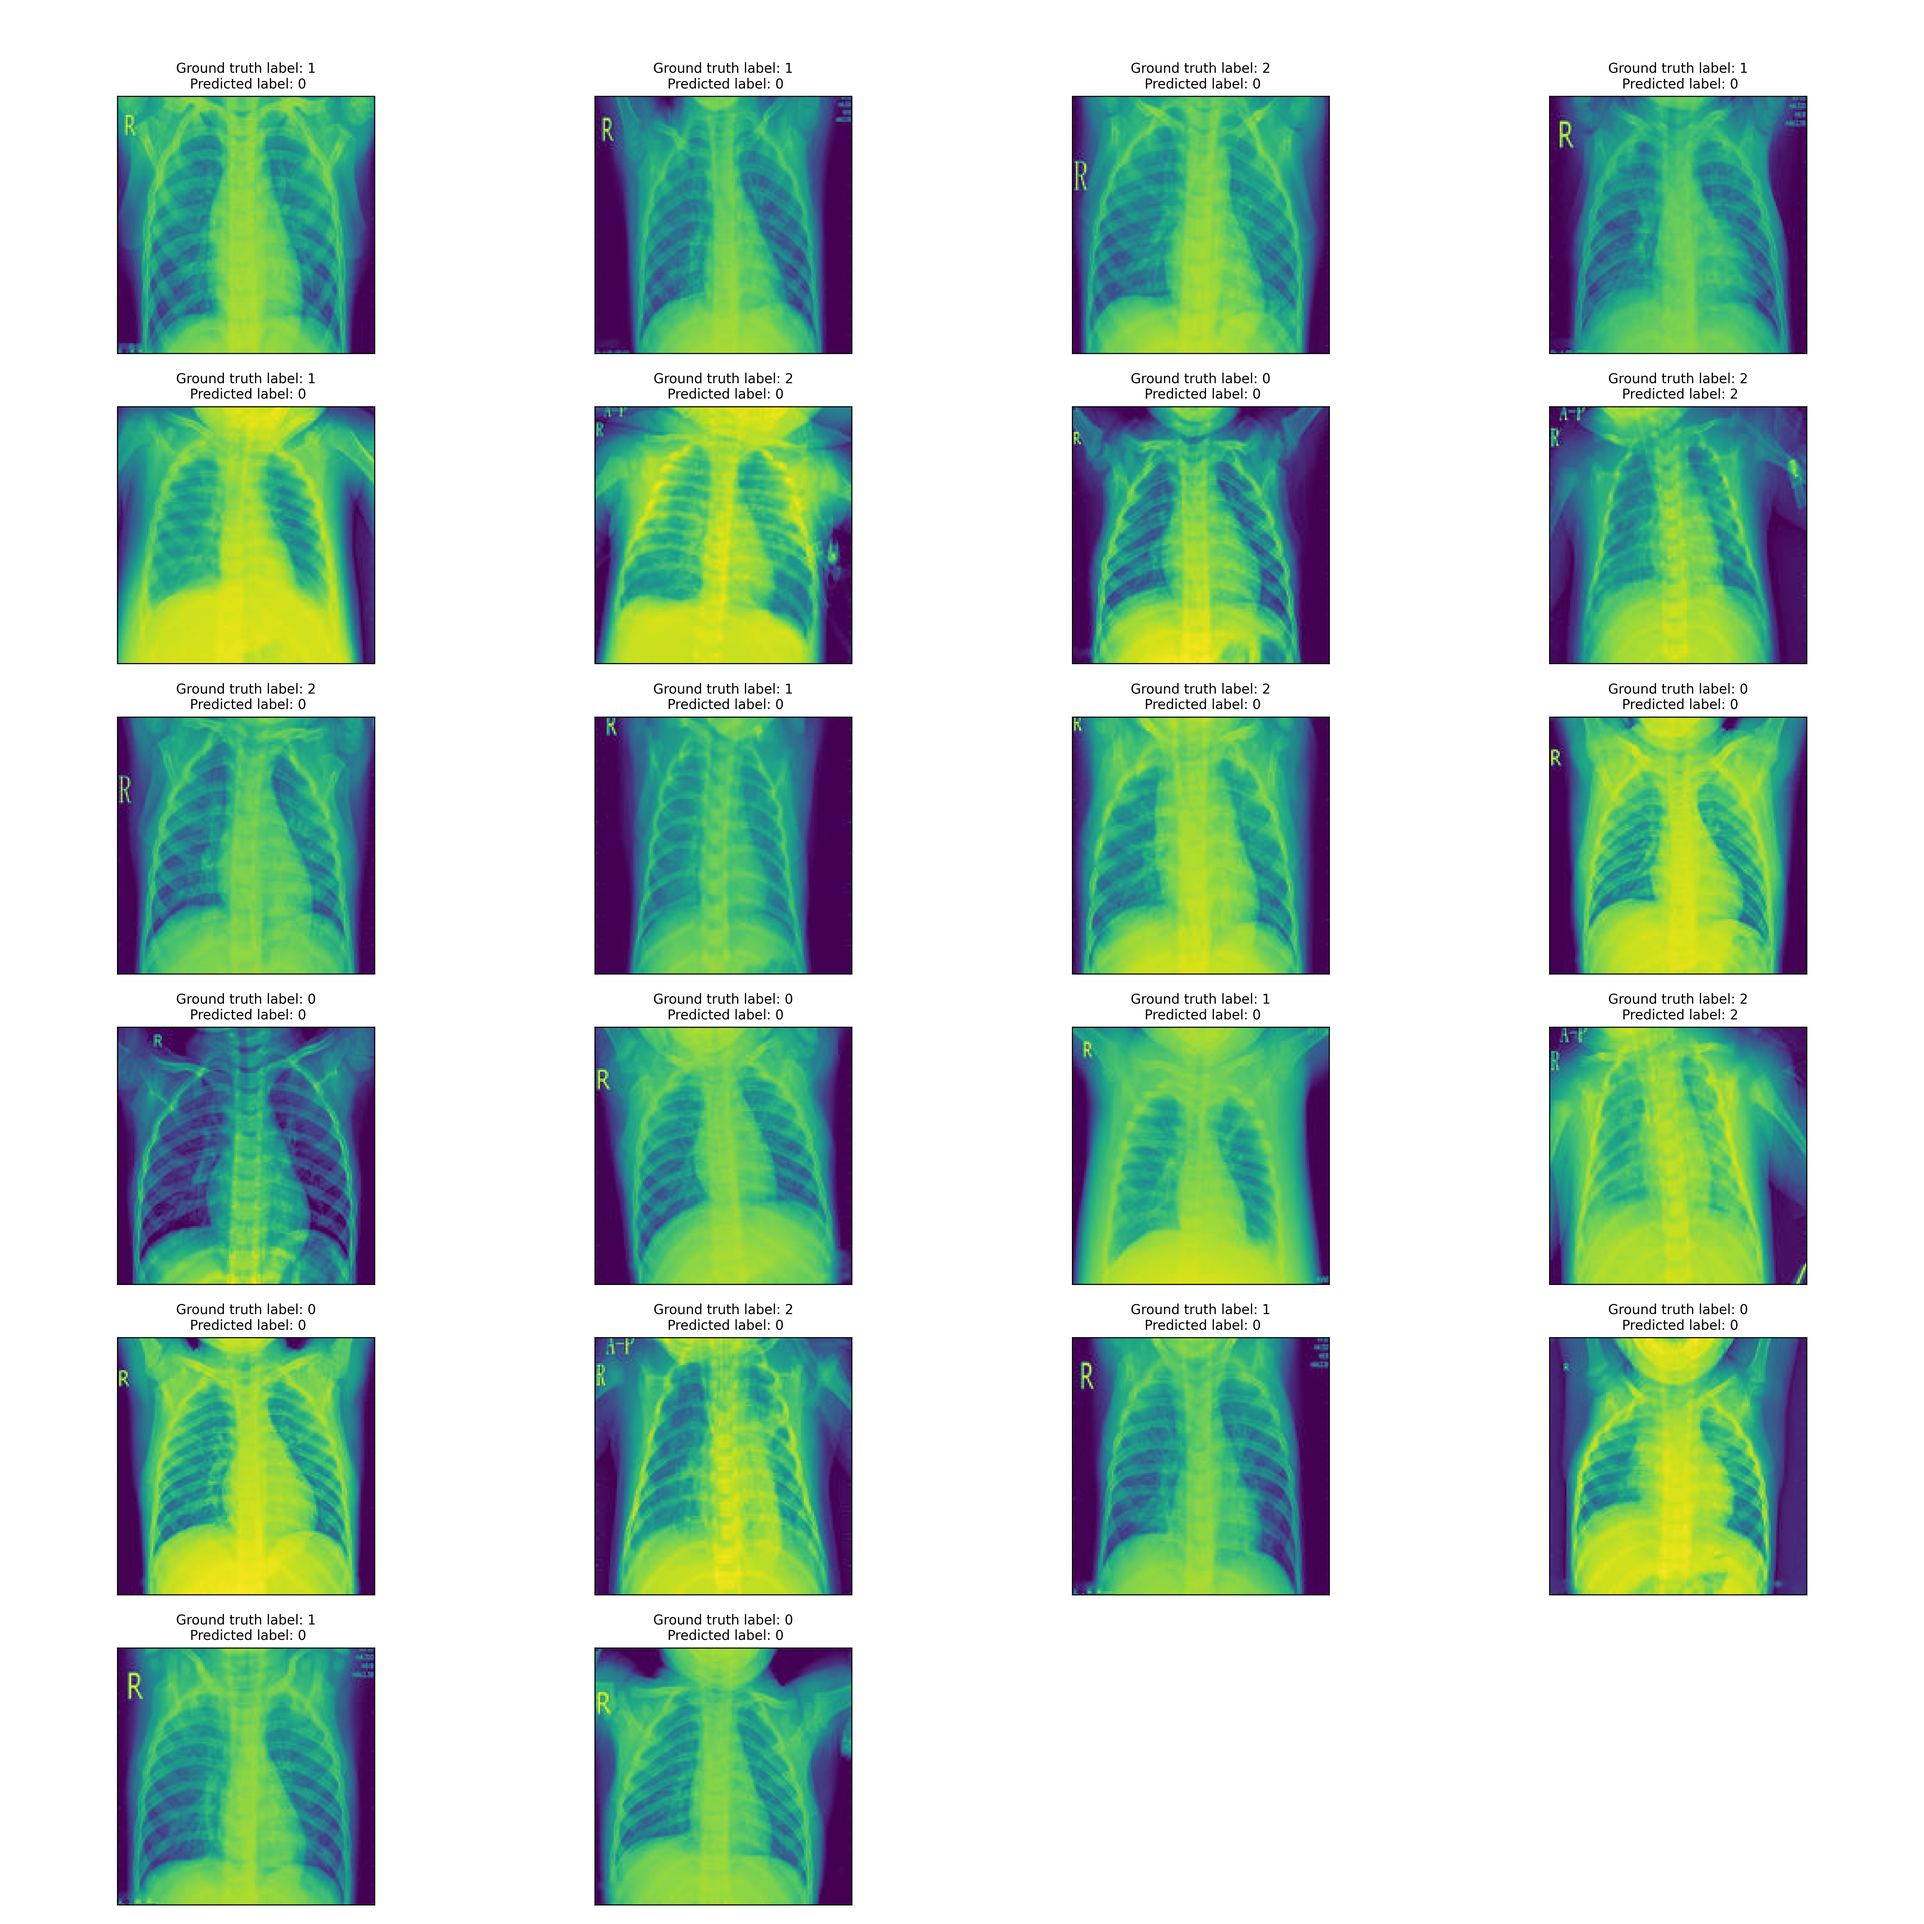
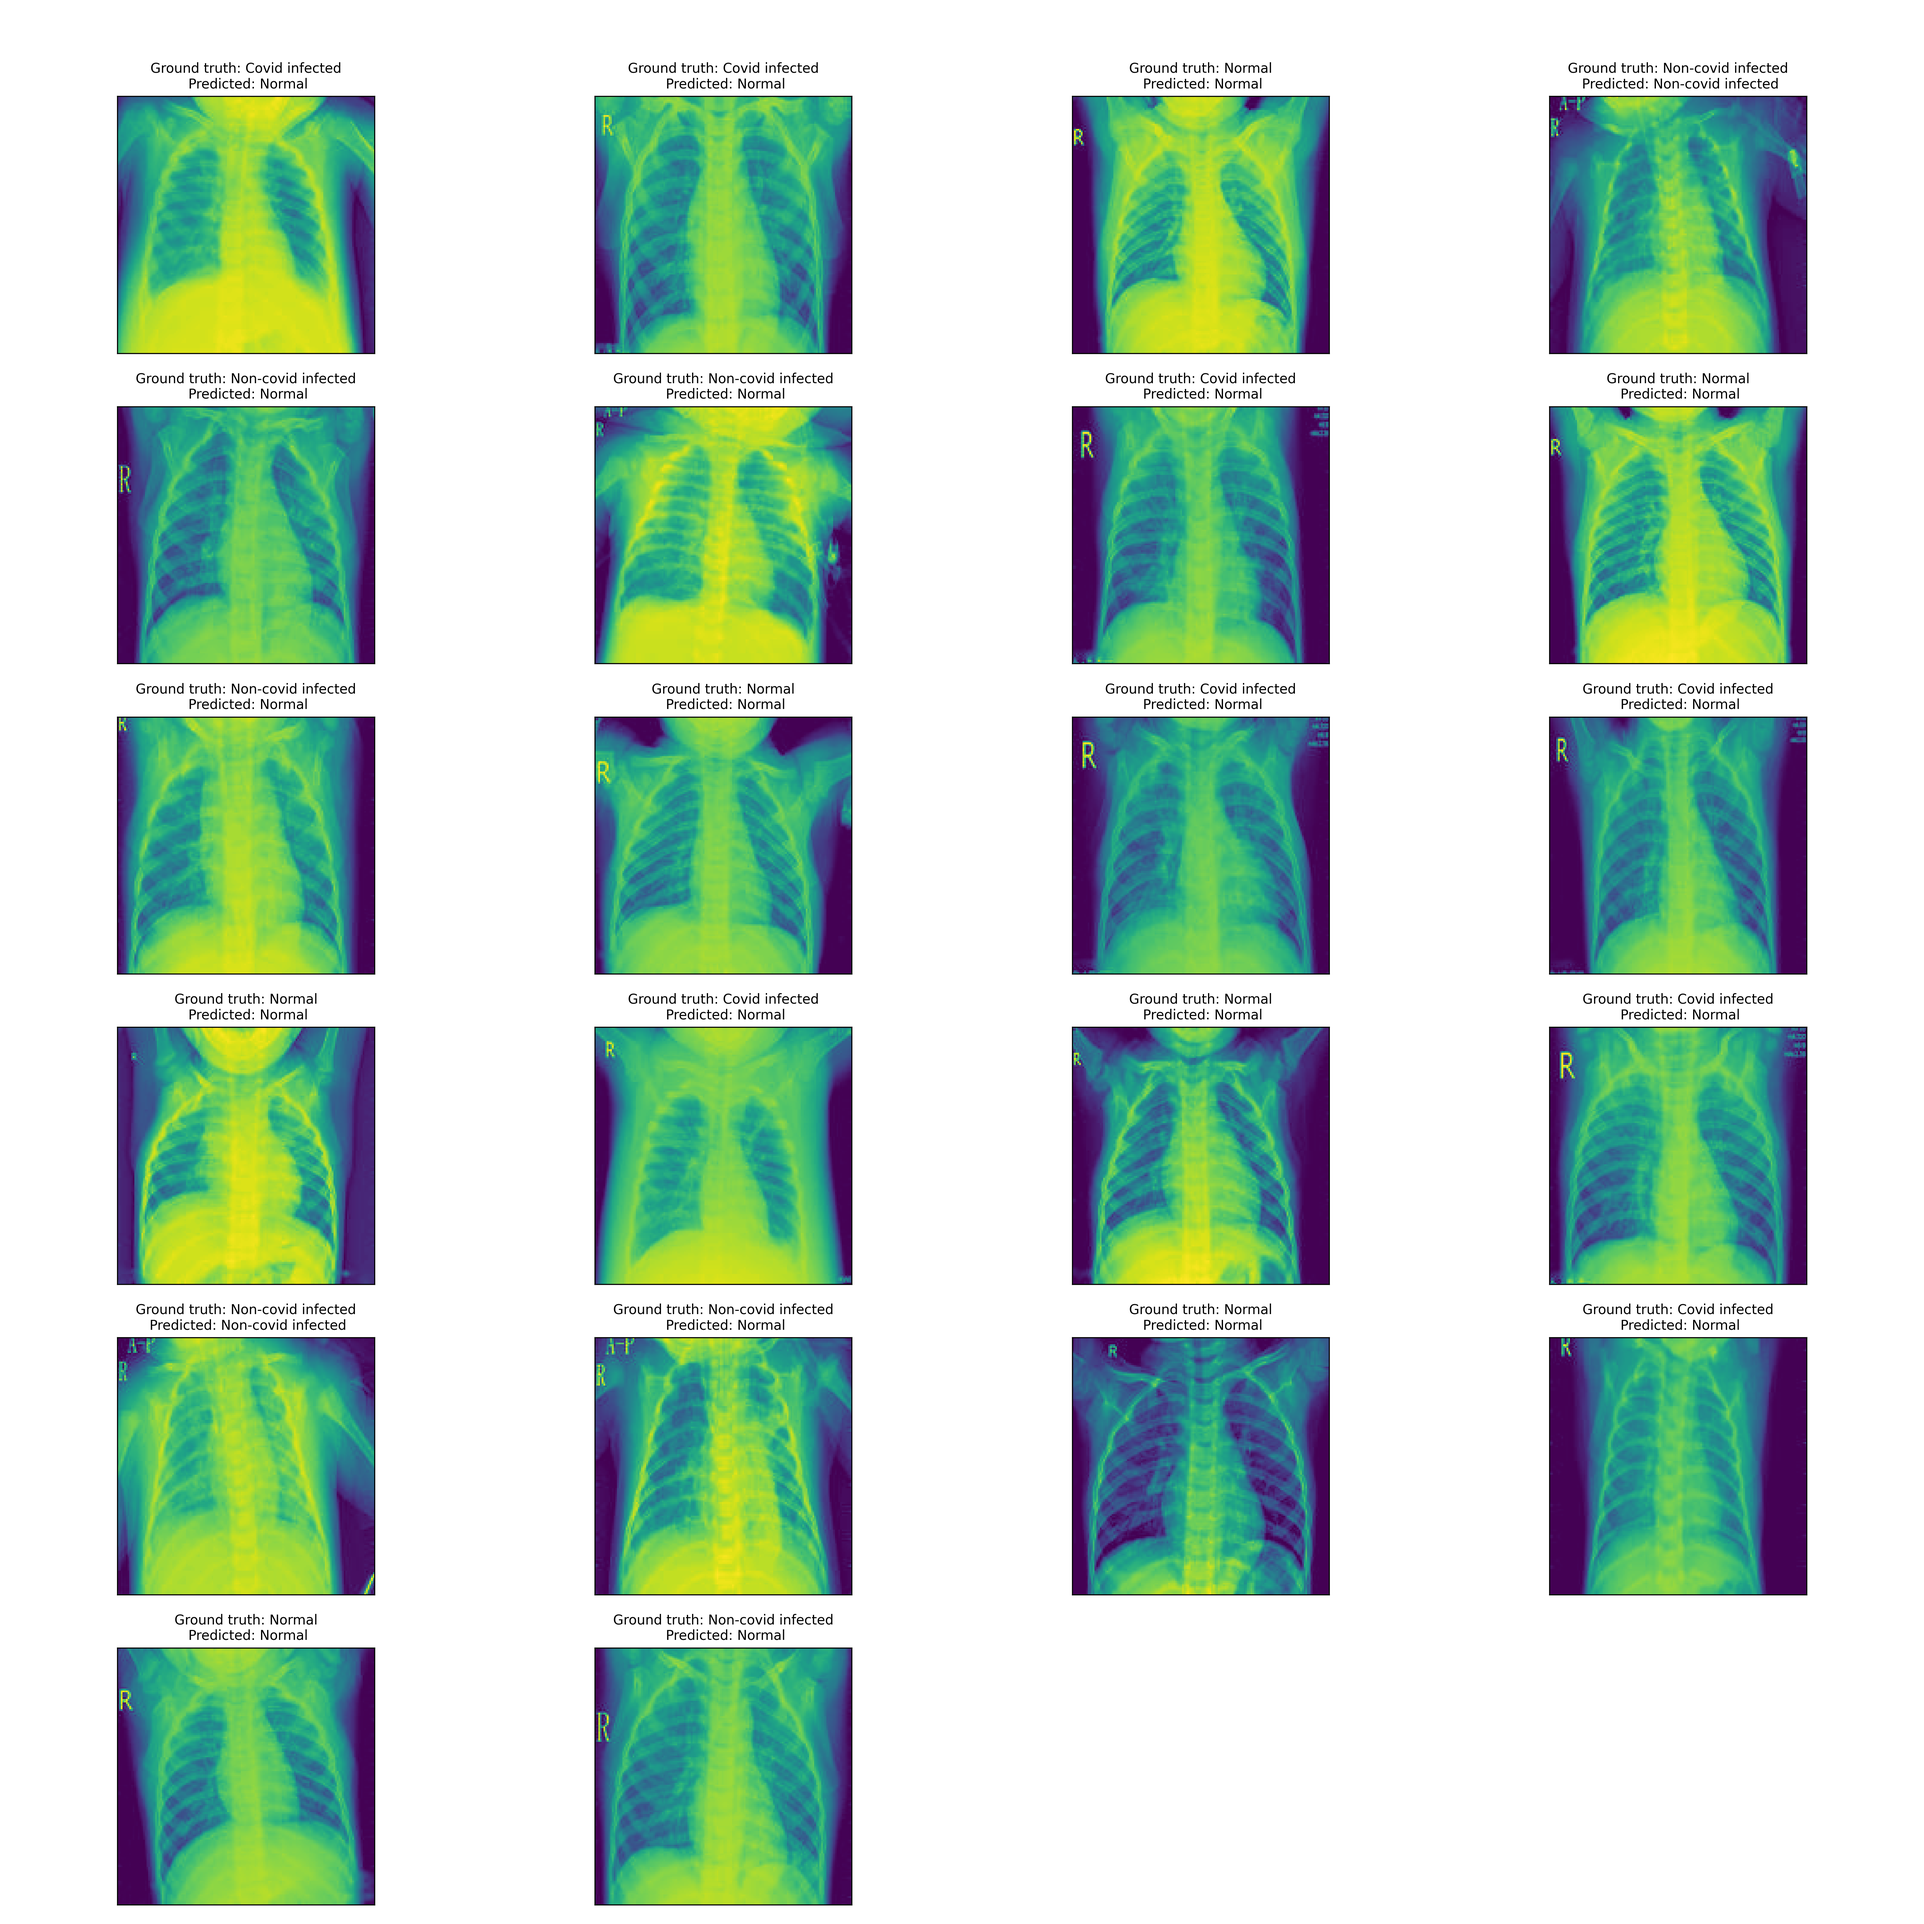
change label to string

diff --git a/training.py b/training.py
@@ -293,36 +293,36 @@ def train_binary(train_loader_1,val_loader_1, train_loader_2, val_loader_2, mode
     return model1, model2
 
 
-ld_train = Lung_Train_Dataset()
-ld_val= Lung_Val_Dataset()
-ld_test= Lung_Test_Dataset()
-ld_train_1 = Lung_Dataset(types="train", data_args=1, classification="binary")
-ld_val_1 = Lung_Dataset(types="val", data_args=0, classification="binary")
-ld_test_1 = Lung_Dataset(types="test", data_args=0, classification="binary")
-ld_train_2 = Lung_Dataset(types="train", data_args=1, classification="infected_only")
-ld_val_2 = Lung_Dataset(types="val", data_args=0, classification="infected_only")
-ld_test_2 = Lung_Dataset(types="test", data_args=0, classification="infected_only")
-# model = Net()
-model1 = model2 = custom_model_1(output_size=2)
-bs_val = 40
-learning_rate=0.01
-train_loader_1 = DataLoader(ld_train_1, batch_size = bs_val, shuffle = True)
-val_loader_1=DataLoader(ld_val_1, batch_size = 1, shuffle = True)
-test_loader_1=DataLoader(ld_test_1, batch_size = 1, shuffle = True)
-train_loader_2 = DataLoader(ld_train_2, batch_size = bs_val, shuffle = True)
-val_loader_2=DataLoader(ld_val_2, batch_size = 1, shuffle = True)
-test_loader_2=DataLoader(ld_test_2, batch_size = 1, shuffle = True)
-optimizer1=torch.optim.Adam(model1.parameters(), lr=learning_rate)
-optimizer2= torch.optim.Adam(model2.parameters(), lr=learning_rate)
-labeldict1 = ld_train_1.classes
-labeldict2 = ld_train_2.classes
-model1, model2 = train_binary(train_loader_1,val_loader_1, train_loader_2, val_loader_2, model1, model2, optimizer1, optimizer2, labeldict1, labeldict2, epochs=5)
+# ld_train = Lung_Train_Dataset()
+# ld_val= Lung_Val_Dataset()
+# ld_test= Lung_Test_Dataset()
+# ld_train_1 = Lung_Dataset(types="train", data_args=1, classification="binary")
+# ld_val_1 = Lung_Dataset(types="val", data_args=0, classification="binary")
+# ld_test_1 = Lung_Dataset(types="test", data_args=0, classification="binary")
+# ld_train_2 = Lung_Dataset(types="train", data_args=1, classification="infected_only")
+# ld_val_2 = Lung_Dataset(types="val", data_args=0, classification="infected_only")
+# ld_test_2 = Lung_Dataset(types="test", data_args=0, classification="infected_only")
+# # model = Net()
+# model1 = model2 = custom_model_1(output_size=2)
+# bs_val = 40
+# learning_rate=0.01
+# train_loader_1 = DataLoader(ld_train_1, batch_size = bs_val, shuffle = True)
+# val_loader_1=DataLoader(ld_val_1, batch_size = 1, shuffle = True)
+# test_loader_1=DataLoader(ld_test_1, batch_size = 1, shuffle = True)
+# train_loader_2 = DataLoader(ld_train_2, batch_size = bs_val, shuffle = True)
+# val_loader_2=DataLoader(ld_val_2, batch_size = 1, shuffle = True)
+# test_loader_2=DataLoader(ld_test_2, batch_size = 1, shuffle = True)
+# optimizer1=torch.optim.Adam(model1.parameters(), lr=learning_rate)
+# optimizer2= torch.optim.Adam(model2.parameters(), lr=learning_rate)
+# labeldict1 = ld_train_1.classes
+# labeldict2 = ld_train_2.classes
+# model1, model2 = train_binary(train_loader_1,val_loader_1, train_loader_2, val_loader_2, model1, model2, optimizer1, optimizer2, labeldict1, labeldict2, epochs=5)
 
-criterion = torch.nn.NLLLoss()
-test_loss1, accuracy1 = test(model1, test_loader_1,criterion,"cuda")
-test_loss2, accuracy2 = test(model2, test_loader_2,criterion,"cuda")
-print("Test Loss (Normal/Infected): {:.3f} - ".format(test_loss1 / len(test_loader_1)),
-    "Test Accuracy (Normal/Infected): {:.3f}".format(accuracy1 / len(test_loader_1)))
-print(
-    "Test Loss (Covid/Non-covid): {:.3f} - ".format(test_loss2 / len(test_loader_2)),
-    "Test Accuracy (Covid/Non-covid): {:.3f}".format(accuracy2 / len(test_loader_2)))
+# criterion = torch.nn.NLLLoss()
+# test_loss1, accuracy1 = test(model1, test_loader_1,criterion,"cuda")
+# test_loss2, accuracy2 = test(model2, test_loader_2,criterion,"cuda")
+# print("Test Loss (Normal/Infected): {:.3f} - ".format(test_loss1 / len(test_loader_1)),
+#     "Test Accuracy (Normal/Infected): {:.3f}".format(accuracy1 / len(test_loader_1)))
+# print(
+#     "Test Loss (Covid/Non-covid): {:.3f} - ".format(test_loss2 / len(test_loader_2)),
+#     "Test Accuracy (Covid/Non-covid): {:.3f}".format(accuracy2 / len(test_loader_2)))
